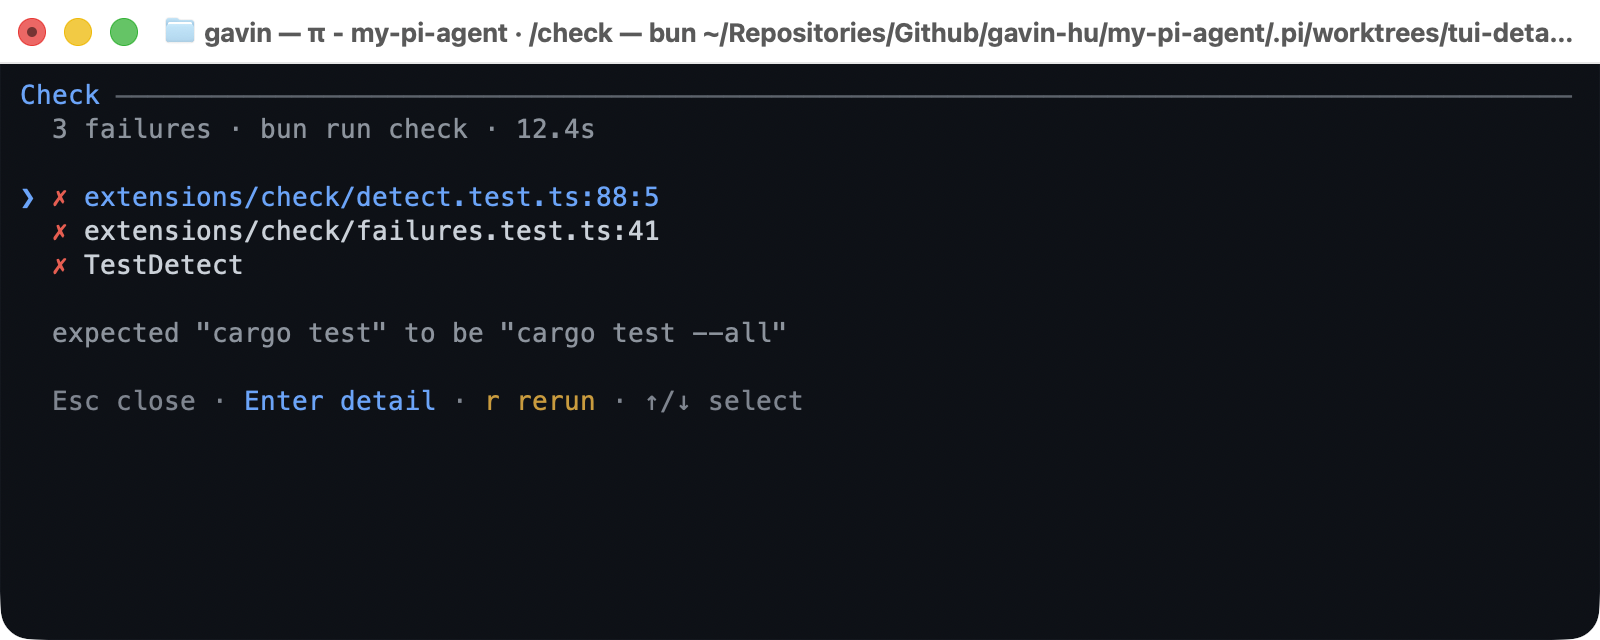
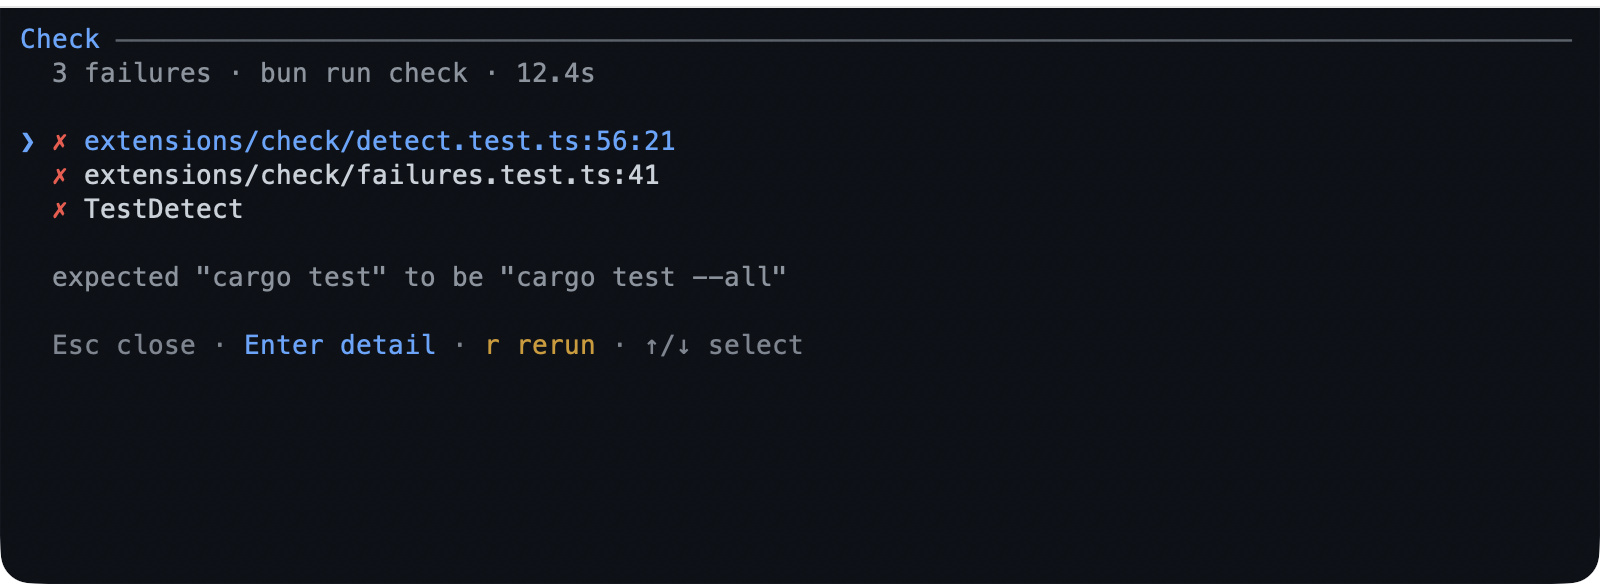
fix(check): keep the failure detail's header to the run's counts
The detail phase printed the failure's location and command as its summary
and again as the pane's first line. The pane owns the location, so the
header goes back to the run summary, and the row budget was one short —
on a clipped excerpt that scrolled the title rule off the top.

Changed region(s): [[0.0, 0.0, 1.0, 0.4315], [0.0312, 0.4623, 0.5, 0.6473], [0.4062, 0.5548, 0.5, 0.6473]]

diff --git a/extensions/check/tui.ts b/extensions/check/tui.ts
@@ -36,7 +36,8 @@ const RUN_CHROME_ROWS = 5;
 const RESULT_DEFAULT_ROWS = 12;
 const RESULT_CHROME_ROWS = 6;
 const DETAIL_DEFAULT_ROWS = 20;
-const DETAIL_CHROME_ROWS = 5;
+/** Header, summary, blank, blank, hint, and blank rows around the excerpt. */
+const DETAIL_CHROME_ROWS = 6;
 
 export interface CheckRunOptions {
 	command: string;
@@ -124,7 +125,6 @@ export class CheckResultComponent implements Component {
 	private readonly cursor: ListCursor;
 	private readonly pane = new LinePane();
 	private phase: "list" | "detail" = "list";
-	private detailFailure: Failure | undefined;
 
 	constructor(private readonly options: CheckResultOptions) {
 		this.cursor = new ListCursor(options.requestRender);
@@ -175,7 +175,6 @@ export class CheckResultComponent implements Component {
 			lines: formatFailureDetail(failure, this.options.result.tail, source),
 		});
 		this.pane.setScroll(0);
-		this.detailFailure = failure;
 		this.phase = "detail";
 		this.options.requestRender();
 	}
@@ -192,12 +191,11 @@ export class CheckResultComponent implements Component {
 			this.pane.fit(this.pane.visible);
 			const { start, end } = this.pane.window();
 			const body = this.pane.lines.slice(start, end).map((line) => clip(paint(this.theme, "label", line), w));
-			const detailSummary = this.detailFailure
-				? `${formatFailureLocation(this.detailFailure)}${SEPARATORS.item}${sanitizeLine(this.detailFailure.command)}`
-				: formatResultSummary(result);
+			// The pane's first line names the failure and its command, so the summary
+			// keeps the run's counts instead of printing the same line twice.
 			return dockListFrame({
 				header,
-				summary: clip(`  ${paint(this.theme, "meta", detailSummary)}`, w),
+				summary,
 				body,
 				range: start > 0 || end < total ? formatRange(this.theme, w, { start, end, total, label: "line" }) : undefined,
 				hint: screenHint(this.theme, w, ["Esc back", "j/k scroll", "g/G top/end"]),

diff --git a/CHANGELOG.md b/CHANGELOG.md
@@ -163,6 +163,11 @@ to [Semantic Versioning](https://semver.org/spec/v2.0.0.html).
 
 ### Fixed
 
+- `check`: the failure detail no longer prints the location line twice — the
+  pane's first line names the failure, so the header keeps the run's counts —
+  and its row budget was one short, which pushed the title rule off the top when
+  the excerpt was clipped.
+
 - `lib`: every docked list screen puts a blank line between the list and the
   focused row's footnotes, so `/check`'s failure excerpt no longer reads as a
   fourth failure and `/review`, `/rewind`, `/jobs`, `/watch` and the `/bytefly`
